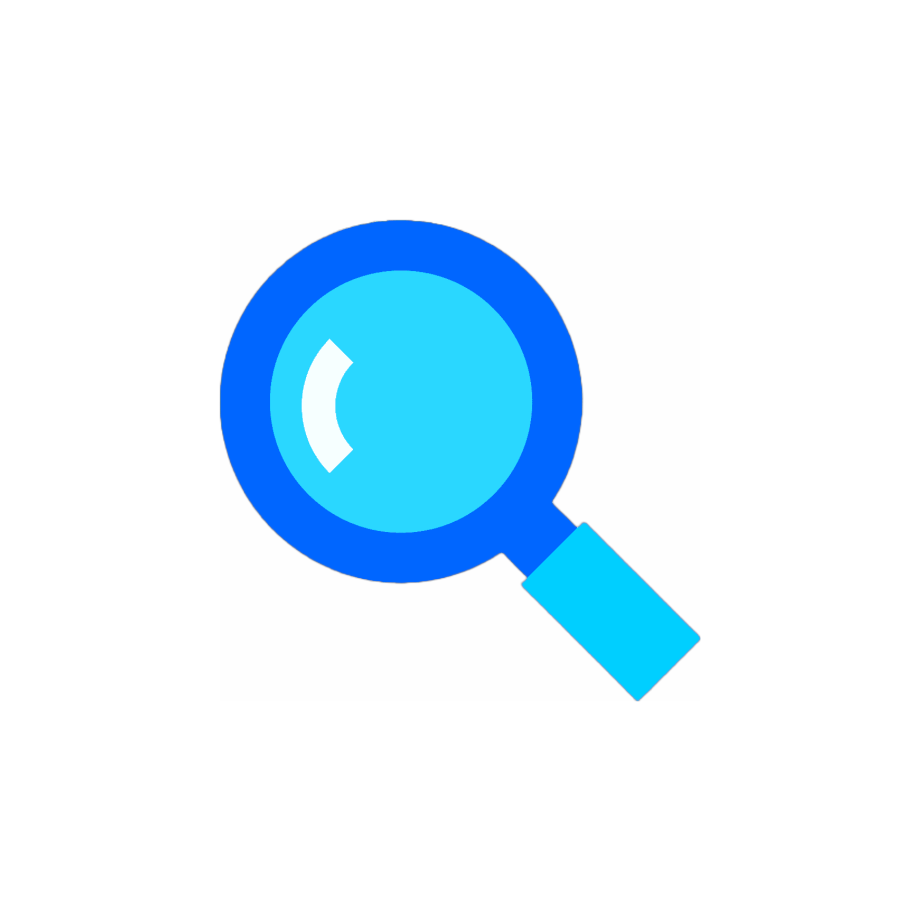
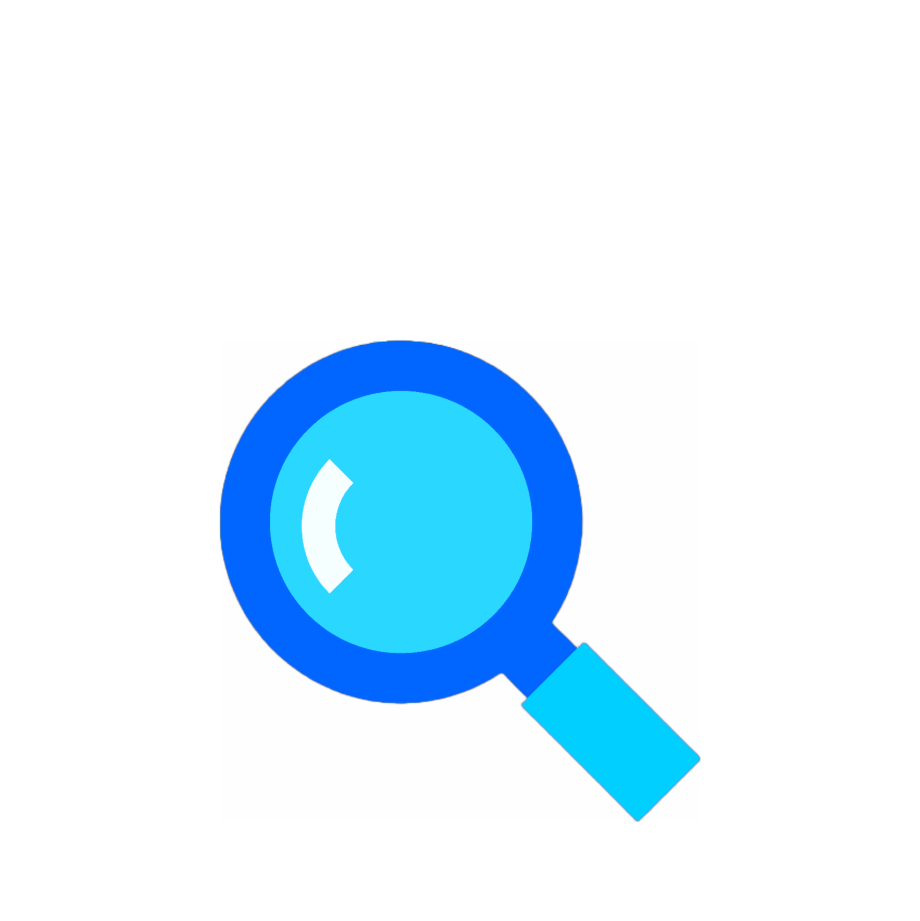
Buttons with animations added and flip cards almost completed on backside

Changed region(s): [[0.213, 0.2128, 0.7609, 0.9121]]

diff --git a/src/App.css b/src/App.css
@@ -14,6 +14,7 @@ a.navbar-brand {
   padding-right: 0; 
   display: flex;
   justify-content: center;
+  border-radius: 30%;
 }
 
 
@@ -30,21 +31,16 @@ a.navbar-brand {
   filter: drop-shadow(0 0 2em #00c8ffaa);
 }
 
-.navbar-item:hover {
-  filter: drop-shadow(0 0 2em #44c1ff);
-}
 
-.navbar-item.react:hover {
-  filter: drop-shadow(0 0 2em #00c8ffaa);
-}
 img {
   width: 80%; 
   border-radius: 30%; 
 }
 
 a.nav-link {
-  margin-right: 40px; 
-  margin-left: 40px;
+  margin-right: 11px; 
+  margin-left: 60px;
+  font-size: 22pt; 
 }
 
  .header {
@@ -65,6 +61,13 @@ a.nav-link {
   padding-bottom: 10px; 
 }
 
+.navbar-item:hover {
+  filter: drop-shadow(0 0 2em #f8fdff);
+}
+
+.navbar-item.react:hover {
+  filter: drop-shadow(0 0 2em #00c8ffaa);
+}
 @-webkit-keyframes glow {
   from {
     text-shadow: 0 0 10px #fff, 0 0 20px #fff, 0 0 30px #1022e9, 0 0 40px #1022e9, 0 0 50px #1022e9, 0 0 60px #1022e9, 0 0 70px #1022e9;
@@ -76,7 +79,8 @@ a.nav-link {
 
 .sub-head {
   margin: 0; 
-  padding-bottom: 80px; 
+  padding-bottom: 120px; 
+
 }
 
 .flip-container {
@@ -139,8 +143,12 @@ a.nav-link {
   height: 400px; 
   width: 400px; 
   padding-top:0; 
-  padding-bottom: 60px; 
   
+}
+
+.magnifier {
+  height: 350px;
+  width: 350px;
 }
 
 
@@ -158,4 +166,80 @@ a.nav-link {
   a:nth-of-type(2) .navbar-brand {
     animation: navbar-brand-spin infinite 20s linear;
   }
+}
+
+.glow-btns {
+  margin: 0;
+  display: flex;
+  justify-content: space-evenly;
+  background-color: #242424;
+}
+
+.search-btn {
+  margin-right: 90px; 
+}
+
+.random-btn {
+
+}
+
+.glow-on-hover {
+  width: 220px;
+  height: 50px;
+  border: none;
+  outline: none;
+  font-size:large;
+  color: #fff;
+  background: #111;
+  cursor: pointer;
+  position: relative;
+  z-index: 0;
+  border-radius: 10px;
+}
+
+.glow-on-hover:before {
+  content: '';
+  background: linear-gradient(45deg, #0aecf4, #0190d3, #4e46f3, #22a3df, #00ffd5, #002bff, #0a506c, #6b91ea, #22dcad);
+  position: absolute;
+  top: -2px;
+  left:-2px;
+  background-size: 400%;
+  z-index: -1;
+  filter: blur(5px);
+  width: calc(100% + 4px);
+  height: calc(100% + 4px);
+  animation: glowing 20s linear infinite;
+  opacity: 0;
+  transition: opacity .3s ease-in-out;
+  border-radius: 10px;
+}
+
+.glow-on-hover:active {
+  color: rgb(229, 252, 255)
+}
+
+.glow-on-hover:active:after {
+  background: transparent;
+}
+
+.glow-on-hover:hover:before {
+  opacity: 1;
+}
+
+.glow-on-hover:after {
+  z-index: -1;
+  content: '';
+  position: absolute;
+  width: 100%;
+  height: 100%;
+  background: #111;
+  left: 0;
+  top: 0;
+  border-radius: 10px;
+}
+
+@keyframes glowing {
+  0% { background-position: 0 0; }
+  50% { background-position: 400% 0; }
+  100% { background-position: 0 0; }
 }

diff --git a/src/Pages/Home.jsx b/src/Pages/Home.jsx
@@ -5,28 +5,52 @@ export default function Home() {
     <>
       <div className="header">
         <h1 className="main-head">TWITTER SHOWCASE</h1>
-        <h4 className="sub-head">A simple twitter app to filter out the noise</h4>
+        <h4 className="sub-head">
+          A simple twitter app to filter out the noise
+        </h4>
       </div>
       <div className="flip-container">
         <div className="flip-box">
           <div className="flip-box-inner">
             <div className="flip-box-front">
-              <img className="magnifier" src="./images/magnifying-glass.png" alt="magnifying glass with search word" />
+              <img
+                className="magnifier"
+                src="./images/magnifying-glass.png"
+                alt="magnifying glass with search word"
+              />
             </div>
             <div className="flip-box-back">
-              <h3>Click the search button to explore recents tweets</h3>
+              <h3 >Search recent tweets</h3>
             </div>
           </div>
         </div>
         <div className="flip-box">
           <div className="flip-box-inner">
             <div className="flip-box-front">
-              <img className="question-mark" src="./images/blue-question-mark.png" alt="" />
+              <img
+                className="question-mark"
+                src="./images/speech-bubble.png"
+                alt=""
+              />
             </div>
             <div className="flip-box-back">
-              <h3>Click the button below to search tweets through my top 5 tweeters</h3>
+              <h3>
+                Get a random tweet from 5 of my favorite minds
+              </h3>
             </div>
           </div>
+        </div>
+      </div>
+      <div className="glow-btns">
+        <div className="search-btn">
+          <button class="glow-on-hover" type="button">
+            Search
+          </button>
+        </div>
+        <div className="random-btn">
+          <button class="glow-on-hover" type="button">
+            Random
+          </button>
         </div>
       </div>
     </>
